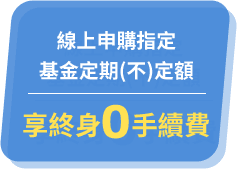
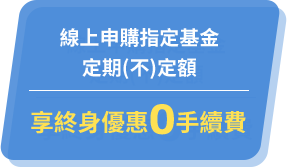
Add files via upload

diff --git a/dreamSetSail/content/css/main.min.css b/dreamSetSail/content/css/main.min.css
@@ -1,1 +1,1 @@
-body,html{font-family:"Noto Sans TC",sans-serif,Arial,"Microsoft JhengHei",Helvetica;font-size:22px;line-height:1.5;color:#333}@media only screen and (max-width:1023px){body,html{font-size:16px}}a,button{outline:0}::-moz-selection{background:#b3d4fc;text-shadow:none}::selection{background:#b3d4fc;text-shadow:none}hr{display:block;height:1px;border:0;border-top:1px solid #ccc;margin:1em 0;padding:0}audio,canvas,iframe,img,svg,video{vertical-align:middle}fieldset{border:0;margin:0;padding:0}textarea{resize:vertical}.browserupgrade{position:absolute;top:0;display:block;width:100%;margin:.2em 0;background:#ccc;padding:.2em 0}body,html{height:100%}.container{min-height:100%;overflow:hidden}.header{position:fixed;top:0;left:0;box-sizing:border-box;width:100%;padding:20px;background-image:url(../images/background/header.png);background-repeat:no-repeat;background-position:center right;background-color:#fff;z-index:100}@media only screen and (max-width:1023px){.header{padding:16px}}.logo{display:inline-block;width:308px}.logo img{width:100%}@media only screen and (max-width:1023px){.logo{width:203px}}.main{margin-top:80px}@media only screen and (max-width:1023px){.main{margin-top:59.5px}}.footer{box-sizing:border-box;padding:20px 12px;font-size:14px;font-weight:300;line-height:24px;text-align:center;color:#fff;background-color:#007fe0}@media only screen and (max-width:767px){.footer{padding-bottom:110px;text-align:left}}.mediaIcons{position:fixed;bottom:50%;left:20px;-webkit-transform:translateY(50%);transform:translateY(50%);margin:0;padding:0;z-index:20}.mediaIcons li{margin:20px 10px;list-style:none}.mediaIcons li a{display:block;width:33px;height:33px;background-position:center;background-size:100%;background-repeat:no-repeat;opacity:.4}.mediaIcons li a.facebook{background-image:url(../images/icon/social/facebook-bk.png)}.mediaIcons li a.line{background-image:url(../images/icon/social/line-bk.png)}.mediaIcons li a.instagram{background-image:url(../images/icon/social/instagram-bk.png)}.mediaIcons li a.youtube{background-image:url(../images/icon/social/youtube-bk.png)}.mediaIcons li a.telegram{background-image:url(../images/icon/social/telegram-bk.png)}@media only screen and (min-width:1024px){.mediaIcons li a:hover{opacity:1}.mediaIcons li a:hover.facebook{background-image:url(../images/icon/social/facebook-hover.png)}.mediaIcons li a:hover.line{background-image:url(../images/icon/social/line-hover.png)}.mediaIcons li a:hover.instagram{background-image:url(../images/icon/social/instagram-hover.png)}.mediaIcons li a:hover.youtube{background-image:url(../images/icon/social/youtube-hover.png)}.mediaIcons li a:hover.telegram{background-image:url(../images/icon/social/telegram-hover.png)}}@media only screen and (max-width:1023px){.mediaIcons{left:0}}@media only screen and (max-width:767px){.mediaIcons{bottom:0;left:0;-webkit-transform:none;transform:none;width:100%;padding:4px 0;text-align:center;background-color:rgba(0,159,232,.9)}.mediaIcons li{display:inline-block;vertical-align:middle;margin:6px}.mediaIcons li a{width:28px;height:28px;opacity:1}.mediaIcons li a.facebook{background-image:url(../images/icon/social/facebook-wt.svg)}.mediaIcons li a.line{background-image:url(../images/icon/social/line-wt.svg)}.mediaIcons li a.instagram{background-image:url(../images/icon/social/instagram-wt.svg)}.mediaIcons li a.youtube{background-image:url(../images/icon/social/youtube-wt.svg)}.mediaIcons li a.telegram{background-image:url(../images/icon/social/telegram-wt.svg)}}.tool{position:fixed;top:53%;right:20px;-webkit-transform:translateY(-50%);transform:translateY(-50%)}.tool-item{position:relative;display:-webkit-flex;display:flex;-webkit-flex-direction:column;flex-direction:column;-webkit-justify-content:center;justify-content:center;-webkit-align-items:center;align-items:center;width:90px;height:90px;font-size:14px;text-decoration:none;border-radius:50%;background-color:rgba(255,255,255,.85)}.tool-item img{width:35px;margin-bottom:5px}.tool-item img.mb{display:none}.tool-item.bu{color:#004fa3;border:solid 2px #004fa3}.tool-item.og{color:#eb6100;border:solid 2px #eb6100}.tool-item:hover{background-color:#fff}.tool-item+.tool-item{margin-top:7px}.tool-note{position:absolute;bottom:100%;left:50%;-webkit-transform:translate(-50%,-15px);transform:translate(-50%,-15px);box-sizing:border-box;width:100px;padding:8px;font-size:14px;font-weight:500;text-align:center;color:#fff;border-radius:7px;background-color:#004fa3;pointer-events:none}.tool-note::after{content:'';position:absolute;top:100%;left:50%;-webkit-transform:translateX(-50%);transform:translateX(-50%);border-style:solid;border-width:10px 7.5px 0 7.5px;border-color:#004fa3 transparent transparent transparent}@media only screen and (max-width:1023px){.tool-item{width:70px;height:70px;font-size:12px}.tool-item img{width:25px;margin-bottom:3px}.tool-note{width:90px;padding:5px;font-size:12px}.tool-note::after{border-width:8px 6px 0 6px}}@media only screen and (max-width:767px){.tool{top:auto;right:0;bottom:48px;left:0;display:-webkit-flex;display:flex;-webkit-transform:none;transform:none}.tool-item{-webkit-flex-direction:row;flex-direction:row;-webkit-flex:0 0 auto;flex:0 0 auto;box-sizing:border-box;height:auto;font-size:14px;border-radius:0}.tool-item+.tool-item{margin-top:0}.tool-item img{width:23px;margin-bottom:0;margin-right:10px}.tool-item img.pc{display:none}.tool-item img.mb{display:block}.tool-item.bu{width:calc(50% - 30px);padding-left:15px;color:#fff;border:none;background-image:linear-gradient(to top,#4a7fcc,#003c7b)}.tool-item.og{width:calc(50% - 45px);color:#fff;border:none;background-image:linear-gradient(to top,#ff6900,#af2500)}.tool-note{position:relative;bottom:auto;left:auto;width:auto;padding:4px 4px 4px 15px;font-size:14px;color:#004fa3;border-radius:0;background-color:#fff;-webkit-transform:none;transform:none;z-index:1}.tool-note::after{top:50%;left:100%;-webkit-transform:translateY(-50%);transform:translateY(-50%);border-width:25px 0 25px 15px;border-color:transparent transparent transparent #fff}.tool-item .tool-note{display:none}}@-webkit-keyframes move{0%{-webkit-transform:translateX(-3%);transform:translateX(-3%)}100%{-webkit-transform:translateX(3%);transform:translateX(3%)}}@keyframes move{0%{-webkit-transform:translateX(-3%);transform:translateX(-3%)}100%{-webkit-transform:translateX(3%);transform:translateX(3%)}}@-webkit-keyframes float{0%{-webkit-transform:translateY(0);transform:translateY(0)}100%{-webkit-transform:translateY(5px);transform:translateY(5px)}}@keyframes float{0%{-webkit-transform:translateY(0);transform:translateY(0)}100%{-webkit-transform:translateY(5px);transform:translateY(5px)}}@-webkit-keyframes seagull{0%{-webkit-transform:translateY(0);transform:translateY(0)}100%{-webkit-transform:translateY(5px) rotate(2deg);transform:translateY(5px) rotate(2deg)}}@keyframes seagull{0%{-webkit-transform:translateY(0);transform:translateY(0)}100%{-webkit-transform:translateY(5px) rotate(2deg);transform:translateY(5px) rotate(2deg)}}@-webkit-keyframes jump{0%{-webkit-transform:translateY(0);transform:translateY(0)}100%{-webkit-transform:translateY(10px);transform:translateY(10px)}}@keyframes jump{0%{-webkit-transform:translateY(0);transform:translateY(0)}100%{-webkit-transform:translateY(10px);transform:translateY(10px)}}.banner{position:relative;padding-bottom:41.6%;background-image:linear-gradient(to top,#fff 33%,#b7e8fe 66%,#61ccfc 100%)}.banner img{width:100%}.banner-action,.banner-box,.banner-cloud,.banner-sailboat,.banner-sea,.banner-seagull,.banner-title{position:absolute}.banner-cloud{top:7%;left:-8%;width:110%;-webkit-animation-name:float;animation-name:float;-webkit-animation-iteration-count:infinite;animation-iteration-count:infinite;-webkit-animation-duration:1s;animation-duration:1s;-webkit-animation-timing-function:linear;animation-timing-function:linear;-webkit-animation-direction:alternate;animation-direction:alternate}.banner-cloud img{-webkit-animation-name:move;animation-name:move;-webkit-animation-iteration-count:infinite;animation-iteration-count:infinite;-webkit-animation-duration:20s;animation-duration:20s;-webkit-animation-timing-function:linear;animation-timing-function:linear;-webkit-animation-direction:alternate;animation-direction:alternate}.banner-sea{bottom:0;left:0;width:100%}.banner-sailboat{top:-16%;left:-5%;width:41.25%;-webkit-animation-name:float;animation-name:float;-webkit-animation-iteration-count:infinite;animation-iteration-count:infinite;-webkit-animation-duration:.5s;animation-duration:.5s;-webkit-animation-timing-function:linear;animation-timing-function:linear;-webkit-animation-direction:alternate;animation-direction:alternate}.banner-sailboat img{-webkit-animation-name:move;animation-name:move;-webkit-animation-iteration-count:infinite;animation-iteration-count:infinite;-webkit-animation-duration:5s;animation-duration:5s;-webkit-animation-delay:-5s;animation-delay:-5s;-webkit-animation-timing-function:ease-in-out;animation-timing-function:ease-in-out;-webkit-animation-direction:alternate;animation-direction:alternate}.banner-title{top:10%;left:50%;-webkit-transform:translateX(-50%);transform:translateX(-50%);width:46.7%}.banner-box{top:48%;width:12.3%}.banner-box.left{left:36.5%}.banner-box.right{left:50.5%}.banner-seagull img{-webkit-animation-name:seagull;animation-name:seagull;-webkit-animation-iteration-count:infinite;animation-iteration-count:infinite;-webkit-animation-duration:1.5s;animation-duration:1.5s;-webkit-animation-timing-function:ease-in-out;animation-timing-function:ease-in-out;-webkit-animation-direction:alternate;animation-direction:alternate}.banner-seagull.centerLg{top:10%;left:43%;width:5%}.banner-seagull.centerLg img{-webkit-animation-delay:-.8s;animation-delay:-.8s}.banner-seagull.centerSm{top:13%;left:39%;width:3%}.banner-seagull.leftLg{top:23%;left:3%;width:3%;-webkit-transform:rotateY(180deg);transform:rotateY(180deg)}.banner-seagull.leftSm{top:26%;left:6%;width:2%;-webkit-transform:rotateY(180deg);transform:rotateY(180deg)}.banner-seagull.leftSm img{-webkit-animation-delay:-.5s;animation-delay:-.5s}.banner-seagull.rightLg{top:12%;right:12%;width:2%;-webkit-transform:rotateY(180deg);transform:rotateY(180deg)}.banner-seagull.rightLg img{-webkit-animation-delay:-1s;animation-delay:-1s}.banner-seagull.rightSm{top:14.5%;right:10%;width:1.5%;-webkit-transform:rotateY(180deg);transform:rotateY(180deg)}.banner-action{bottom:2%;left:50%;-webkit-transform:translateX(-50%);transform:translateX(-50%);width:25.3%;min-width:350px}.banner-action img{-webkit-transform-origin:bottom;transform-origin:bottom;-webkit-animation-name:jump;animation-name:jump;-webkit-animation-iteration-count:infinite;animation-iteration-count:infinite;-webkit-animation-duration:.7s;animation-duration:.7s;-webkit-animation-timing-function:ease-in-out;animation-timing-function:ease-in-out;-webkit-animation-direction:alternate;animation-direction:alternate}@media only screen and (max-width:1023px){.banner{margin-bottom:-32%;padding-bottom:186.8%;background-image:linear-gradient(to top,#2666b5,#fff 34%,#b7e8fe 77%,#61ccfc 100%)}.banner-cloud{top:30%;left:auto;right:-8%;width:250%}.banner-sailboat{top:23%;left:-30%;width:83%}.banner-title{top:5%;left:51%;width:94%}.banner-box{width:60%}.banner-box.left{top:36%;left:32%}.banner-box.right{top:24%;left:32%}.banner-seagull.centerLg{top:3%;left:39%;width:12%}.banner-seagull.centerSm{top:5%;left:29%;width:10%}.banner-seagull.leftLg,.banner-seagull.leftSm,.banner-seagull.rightLg,.banner-seagull.rightSm{display:none}.banner-action{bottom:20%;width:80%;max-width:400px;min-width:auto}}.btn{position:relative;box-sizing:border-box;display:block;width:220px;margin-top:30px;padding:13px 50px;color:#fff;text-decoration:none;border-radius:10px;background-color:#4e8eda;cursor:pointer;transition:.3s}.btn::after{content:'';position:absolute;top:50%;right:50px;-webkit-transform:translateY(-50%);transform:translateY(-50%);display:block;width:22px;height:22px;border-radius:50%;background-color:#fff;background-image:url(./../images/icon/arrow-bu.png);background-repeat:no-repeat;background-size:12px;background-position:center;transition:.3s}.btn:hover{color:#4e8eda;background-color:#fff}.btn:hover::after{background-color:#4e8eda;background-image:url(./../images/icon/arrow.png)}@media only screen and (max-width:1023px){.btn{width:155px;margin:auto;margin-top:25px;padding:10px 30px}.btn::after{right:30px;width:20px;height:20px;background-size:10px}}.content{background-color:#194685;background-image:url(./../images/background/content.jpg);background-repeat:no-repeat;background-size:100%}@media only screen and (max-width:1023px){.content{background-color:#2666b5;background-image:url(./../images/background/content-mb.jpg);background-position:bottom}}.wrap{position:relative;box-sizing:border-box;max-width:1160px;margin:0 auto;padding:30px;padding-bottom:70px}@media only screen and (max-width:1023px){.wrap{max-width:660px;padding:0 30px;padding-bottom:50px}}.grid{display:-webkit-flex;display:flex}.grid-item{-webkit-flex:1;flex:1}.grid-item>img{width:100%}.grid-item+.grid-item{margin-left:45px}.info .grid{-webkit-align-items:center;align-items:center}.info .grid-item.pic{-webkit-order:2;order:2;margin-left:45px}.info .grid-item.text{-webkit-order:1;order:1;margin-left:0}@media only screen and (max-width:1023px){.grid{display:block}.grid-item>img{max-width:350px}.grid-item+.grid-item{margin-left:0;margin-top:20px}.info .grid-item.pic{text-align:center;margin-left:0}.info .grid-item.text{margin-top:30px}}.linkList{height:100%;border-radius:20px;box-shadow:0 15px 15px 0 rgba(26,85,158,.8);background-color:rgba(247,250,252,.95);overflow:hidden}.linkList-head{display:-webkit-flex;display:flex;-webkit-justify-content:center;justify-content:center;-webkit-align-items:center;align-items:center;padding:17px;font-size:28px;font-weight:500;color:#fff;background-color:#347dd4}.linkList-head p{margin-left:15px}.linkList-content{padding:30px}.linkList-item{position:relative;display:block;padding:20px 60px;font-size:20px;font-weight:500;color:#004fa3;text-decoration:none}.linkList-item::before{content:'';position:absolute;top:50%;left:20px;-webkit-transform:translateY(-50%);transform:translateY(-50%);display:block;width:32px;height:32px;background-image:url(./../images/icon/coin.png);background-repeat:no-repeat;background-size:contain}.linkList-item::after{content:'';position:absolute;top:50%;right:20px;-webkit-transform:translateY(-50%);transform:translateY(-50%);display:block;width:25px;height:25px;border-radius:50%;background-color:#347dd4;background-image:url(./../images/icon/arrow.png);background-repeat:no-repeat;background-size:13px;background-position:center;transition:.3s}.linkList-item:hover::after{-webkit-transform:translate(15px,-50%);transform:translate(15px,-50%)}.linkList-item+.linkList-item{border-top:1px solid #347dd4}.linkList.gn{background-image:url(./../images/background/line.png);background-repeat:no-repeat;background-size:100%;background-position:bottom}.linkList.gn .linkList-head{background-color:#17a7bb}.linkList.gn .linkList-item::after{background-color:#17a7bb}.linkList.gn .linkList-item+.linkList-item{border-color:#17a7bb}@media only screen and (max-width:1279px){.linkList-head{padding:15px;font-size:24px}.linkList-head img{width:45px}.linkList-content{padding:20px}.linkList-item{padding:17px 60px}}@media only screen and (max-width:1023px){.linkList{border-radius:15px}.linkList-head{padding:12px;font-size:20px}.linkList-head img{width:36px}.linkList-head p{margin-left:10px}.linkList-content{padding:10px 15px}.linkList-item{padding:12px 30px 12px 35px;font-size:16px}.linkList-item::before{left:7px;width:20px;height:20px}.linkList-item::after{right:7px;width:16px;height:16px;background-size:8px}.linkList.gn{padding-bottom:50px}}.info{margin-top:110px}.info-title{margin-bottom:35px;font-size:36px;font-weight:500;text-align:center;color:#fff;text-shadow:0 0 13px #017db0}.info-content{padding:40px 65px;color:#fff;line-height:1.8;border-radius:20px;box-shadow:0 15px 15px 0 rgba(0,46,102,.8);border:solid 2px #fff;background-color:rgba(0,28,79,.3)}.info-content span{color:#ffe153}@media only screen and (max-width:1023px){.info{margin-top:50px}.info-title{margin-bottom:20px;font-size:27px}.info-content{padding:20px 30px 30px;border-radius:15px;border:solid 1px #fff}}.notice{margin-top:190px}.notice-title{margin-bottom:45px;font-size:26px;font-weight:500;text-align:center;color:#fff}.notice-content{font-size:16px;font-weight:300;line-height:1.6;color:#fff}@media only screen and (max-width:1023px){.notice{margin-top:70px}.notice-title{margin-bottom:20px;font-size:22px}.notice-content{font-size:14px}}ol{margin:0;padding-left:25px;line-height:1.8}ol.chinese{padding-left:30px;list-style-type:none}ol.chinese>li{position:relative}ol.chinese>li::before{content:"(" attr(data-num) ")";position:absolute;top:0;left:-3px;-webkit-transform:translateX(-100%);transform:translateX(-100%)}ol.decimal{list-style-type:none}ol.decimal>li{position:relative;counter-increment:decimal}ol.decimal>li::before{content:"(" counter(decimal,decimal) ")";position:absolute;top:0;left:-3px;-webkit-transform:translateX(-100%);transform:translateX(-100%)}@media only screen and (max-width:767px){ol{padding-left:20px}ol.chinese{padding-left:25px}}h1,h2,h3,h4,h5,h6{margin:0;font-size:1em}p{margin:0}.bold{font-weight:700}@media only screen and (min-width:1024px){.mobileOnly{display:none}}@media only screen and (max-width:1023px){.desktopOnly{display:none}}
+body,html{font-family:"Noto Sans TC",sans-serif,Arial,"Microsoft JhengHei",Helvetica;font-size:22px;line-height:1.5;color:#333}@media only screen and (max-width:1023px){body,html{font-size:16px}}a,button{outline:0}::-moz-selection{background:#b3d4fc;text-shadow:none}::selection{background:#b3d4fc;text-shadow:none}hr{display:block;height:1px;border:0;border-top:1px solid #ccc;margin:1em 0;padding:0}audio,canvas,iframe,img,svg,video{vertical-align:middle}fieldset{border:0;margin:0;padding:0}textarea{resize:vertical}.browserupgrade{position:absolute;top:0;display:block;width:100%;margin:.2em 0;background:#ccc;padding:.2em 0}body,html{height:100%}.container{min-height:100%;overflow:hidden}.header{position:fixed;top:0;left:0;box-sizing:border-box;width:100%;padding:20px;background-image:url(../images/background/header.png);background-repeat:no-repeat;background-position:center right;background-color:#fff;z-index:100}@media only screen and (max-width:1023px){.header{padding:16px}}.logo{display:inline-block;width:308px}.logo img{width:100%}@media only screen and (max-width:1023px){.logo{width:203px}}.main{margin-top:80px}@media only screen and (max-width:1023px){.main{margin-top:59.5px}}.footer{box-sizing:border-box;padding:20px 12px;font-size:14px;font-weight:300;line-height:24px;text-align:center;color:#fff;background-color:#007fe0}@media only screen and (max-width:767px){.footer{padding-bottom:110px;text-align:left}}.mediaIcons{position:fixed;bottom:50%;left:20px;-webkit-transform:translateY(50%);transform:translateY(50%);margin:0;padding:0;z-index:20}.mediaIcons li{margin:20px 10px;list-style:none}.mediaIcons li a{display:block;width:33px;height:33px;background-position:center;background-size:100%;background-repeat:no-repeat;opacity:.4}.mediaIcons li a.facebook{background-image:url(../images/icon/social/facebook-bk.png)}.mediaIcons li a.line{background-image:url(../images/icon/social/line-bk.png)}.mediaIcons li a.instagram{background-image:url(../images/icon/social/instagram-bk.png)}.mediaIcons li a.youtube{background-image:url(../images/icon/social/youtube-bk.png)}.mediaIcons li a.telegram{background-image:url(../images/icon/social/telegram-bk.png)}@media only screen and (min-width:1024px){.mediaIcons li a:hover{opacity:1}.mediaIcons li a:hover.facebook{background-image:url(../images/icon/social/facebook-hover.png)}.mediaIcons li a:hover.line{background-image:url(../images/icon/social/line-hover.png)}.mediaIcons li a:hover.instagram{background-image:url(../images/icon/social/instagram-hover.png)}.mediaIcons li a:hover.youtube{background-image:url(../images/icon/social/youtube-hover.png)}.mediaIcons li a:hover.telegram{background-image:url(../images/icon/social/telegram-hover.png)}}@media only screen and (max-width:1023px){.mediaIcons{left:0}}@media only screen and (max-width:767px){.mediaIcons{bottom:0;left:0;-webkit-transform:none;transform:none;width:100%;padding:4px 0;text-align:center;background-color:rgba(0,159,232,.9)}.mediaIcons li{display:inline-block;vertical-align:middle;margin:6px}.mediaIcons li a{width:28px;height:28px;opacity:1}.mediaIcons li a.facebook{background-image:url(../images/icon/social/facebook-wt.svg)}.mediaIcons li a.line{background-image:url(../images/icon/social/line-wt.svg)}.mediaIcons li a.instagram{background-image:url(../images/icon/social/instagram-wt.svg)}.mediaIcons li a.youtube{background-image:url(../images/icon/social/youtube-wt.svg)}.mediaIcons li a.telegram{background-image:url(../images/icon/social/telegram-wt.svg)}}.tool{position:fixed;top:53%;right:20px;-webkit-transform:translateY(-50%);transform:translateY(-50%)}.tool-item{position:relative;display:-webkit-flex;display:flex;-webkit-flex-direction:column;flex-direction:column;-webkit-justify-content:center;justify-content:center;-webkit-align-items:center;align-items:center;width:90px;height:90px;font-size:14px;text-decoration:none;border-radius:50%;background-color:rgba(255,255,255,.85)}.tool-item img{width:35px;margin-bottom:5px}.tool-item img.mb{display:none}.tool-item.bu{color:#004fa3;border:solid 2px #004fa3}.tool-item.og{color:#eb6100;border:solid 2px #eb6100}.tool-item:hover{background-color:#fff}.tool-item+.tool-item{margin-top:7px}.tool-note{position:absolute;bottom:100%;left:50%;-webkit-transform:translate(-50%,-15px);transform:translate(-50%,-15px);box-sizing:border-box;width:100px;padding:8px;font-size:14px;font-weight:500;text-align:center;color:#fff;border-radius:7px;background-color:#004fa3;pointer-events:none}.tool-note::after{content:'';position:absolute;top:100%;left:50%;-webkit-transform:translateX(-50%);transform:translateX(-50%);border-style:solid;border-width:10px 7.5px 0 7.5px;border-color:#004fa3 transparent transparent transparent}@media only screen and (max-width:1023px){.tool-item{width:70px;height:70px;font-size:12px}.tool-item img{width:25px;margin-bottom:3px}.tool-note{width:90px;padding:5px;font-size:12px}.tool-note::after{border-width:8px 6px 0 6px}}@media only screen and (max-width:767px){.tool{top:auto;right:0;bottom:48px;left:0;display:-webkit-flex;display:flex;-webkit-transform:none;transform:none}.tool-item{-webkit-flex-direction:row;flex-direction:row;-webkit-flex:0 0 auto;flex:0 0 auto;box-sizing:border-box;height:auto;font-size:14px;border-radius:0}.tool-item+.tool-item{margin-top:0}.tool-item img{width:23px;margin-bottom:0;margin-right:10px}.tool-item img.pc{display:none}.tool-item img.mb{display:block}.tool-item.bu{width:calc(50% - 30px);padding-left:15px;color:#fff;border:none;background-image:linear-gradient(to top,#4a7fcc,#003c7b)}.tool-item.og{width:calc(50% - 45px);color:#fff;border:none;background-image:linear-gradient(to top,#ff6900,#af2500)}.tool-note{position:relative;bottom:auto;left:auto;width:auto;padding:4px 4px 4px 15px;font-size:14px;color:#004fa3;border-radius:0;background-color:#fff;-webkit-transform:none;transform:none;z-index:1}.tool-note::after{top:50%;left:100%;-webkit-transform:translateY(-50%);transform:translateY(-50%);border-width:25px 0 25px 15px;border-color:transparent transparent transparent #fff}.tool-item .tool-note{display:none}}@-webkit-keyframes move{0%{-webkit-transform:translateX(-3%);transform:translateX(-3%)}100%{-webkit-transform:translateX(3%);transform:translateX(3%)}}@keyframes move{0%{-webkit-transform:translateX(-3%);transform:translateX(-3%)}100%{-webkit-transform:translateX(3%);transform:translateX(3%)}}@-webkit-keyframes float{0%{-webkit-transform:translateY(0);transform:translateY(0)}100%{-webkit-transform:translateY(5px);transform:translateY(5px)}}@keyframes float{0%{-webkit-transform:translateY(0);transform:translateY(0)}100%{-webkit-transform:translateY(5px);transform:translateY(5px)}}@-webkit-keyframes seagull{0%{-webkit-transform:translateY(0);transform:translateY(0)}100%{-webkit-transform:translateY(5px) rotate(2deg);transform:translateY(5px) rotate(2deg)}}@keyframes seagull{0%{-webkit-transform:translateY(0);transform:translateY(0)}100%{-webkit-transform:translateY(5px) rotate(2deg);transform:translateY(5px) rotate(2deg)}}@-webkit-keyframes jump{0%{-webkit-transform:translateY(0);transform:translateY(0)}100%{-webkit-transform:translateY(10px);transform:translateY(10px)}}@keyframes jump{0%{-webkit-transform:translateY(0);transform:translateY(0)}100%{-webkit-transform:translateY(10px);transform:translateY(10px)}}.banner{position:relative;padding-bottom:41.6%;background-image:linear-gradient(to top,#fff 33%,#b7e8fe 66%,#61ccfc 100%)}.banner img{width:100%}.banner-action,.banner-box,.banner-cloud,.banner-sailboat,.banner-sea,.banner-seagull,.banner-title{position:absolute}.banner-cloud{top:7%;left:-8%;width:110%;-webkit-animation-name:float;animation-name:float;-webkit-animation-iteration-count:infinite;animation-iteration-count:infinite;-webkit-animation-duration:1s;animation-duration:1s;-webkit-animation-timing-function:linear;animation-timing-function:linear;-webkit-animation-direction:alternate;animation-direction:alternate}.banner-cloud img{-webkit-animation-name:move;animation-name:move;-webkit-animation-iteration-count:infinite;animation-iteration-count:infinite;-webkit-animation-duration:20s;animation-duration:20s;-webkit-animation-timing-function:linear;animation-timing-function:linear;-webkit-animation-direction:alternate;animation-direction:alternate}.banner-sea{bottom:0;left:0;width:100%}.banner-sailboat{top:-16%;left:-5%;width:41.25%;-webkit-animation-name:float;animation-name:float;-webkit-animation-iteration-count:infinite;animation-iteration-count:infinite;-webkit-animation-duration:.5s;animation-duration:.5s;-webkit-animation-timing-function:linear;animation-timing-function:linear;-webkit-animation-direction:alternate;animation-direction:alternate}.banner-sailboat img{-webkit-animation-name:move;animation-name:move;-webkit-animation-iteration-count:infinite;animation-iteration-count:infinite;-webkit-animation-duration:5s;animation-duration:5s;-webkit-animation-delay:-5s;animation-delay:-5s;-webkit-animation-timing-function:ease-in-out;animation-timing-function:ease-in-out;-webkit-animation-direction:alternate;animation-direction:alternate}.banner-title{top:10%;left:50%;-webkit-transform:translateX(-50%);transform:translateX(-50%);width:46.7%}.banner-box{top:48%;width:14.9%}.banner-box.left{left:35.5%}.banner-box.right{left:51%}.banner-seagull img{-webkit-animation-name:seagull;animation-name:seagull;-webkit-animation-iteration-count:infinite;animation-iteration-count:infinite;-webkit-animation-duration:1.5s;animation-duration:1.5s;-webkit-animation-timing-function:ease-in-out;animation-timing-function:ease-in-out;-webkit-animation-direction:alternate;animation-direction:alternate}.banner-seagull.centerLg{top:10%;left:43%;width:5%}.banner-seagull.centerLg img{-webkit-animation-delay:-.8s;animation-delay:-.8s}.banner-seagull.centerSm{top:13%;left:39%;width:3%}.banner-seagull.leftLg{top:23%;left:3%;width:3%;-webkit-transform:rotateY(180deg);transform:rotateY(180deg)}.banner-seagull.leftSm{top:26%;left:6%;width:2%;-webkit-transform:rotateY(180deg);transform:rotateY(180deg)}.banner-seagull.leftSm img{-webkit-animation-delay:-.5s;animation-delay:-.5s}.banner-seagull.rightLg{top:12%;right:12%;width:2%;-webkit-transform:rotateY(180deg);transform:rotateY(180deg)}.banner-seagull.rightLg img{-webkit-animation-delay:-1s;animation-delay:-1s}.banner-seagull.rightSm{top:14.5%;right:10%;width:1.5%;-webkit-transform:rotateY(180deg);transform:rotateY(180deg)}.banner-action{bottom:2%;left:50%;-webkit-transform:translateX(-50%);transform:translateX(-50%);width:25.3%;min-width:350px}.banner-action img{-webkit-transform-origin:bottom;transform-origin:bottom;-webkit-animation-name:jump;animation-name:jump;-webkit-animation-iteration-count:infinite;animation-iteration-count:infinite;-webkit-animation-duration:.7s;animation-duration:.7s;-webkit-animation-timing-function:ease-in-out;animation-timing-function:ease-in-out;-webkit-animation-direction:alternate;animation-direction:alternate}@media only screen and (max-width:1023px){.banner{margin-bottom:-32%;padding-bottom:186.8%;background-image:linear-gradient(to top,#2666b5,#fff 34%,#b7e8fe 77%,#61ccfc 100%)}.banner-cloud{top:30%;left:auto;right:-8%;width:250%}.banner-sailboat{top:23%;left:-30%;width:83%}.banner-title{top:5%;left:51%;width:94%}.banner-box{width:60%}.banner-box.left{top:36%;left:32%}.banner-box.right{top:24%;left:32%}.banner-seagull.centerLg{top:3%;left:39%;width:12%}.banner-seagull.centerSm{top:5%;left:29%;width:10%}.banner-seagull.leftLg,.banner-seagull.leftSm,.banner-seagull.rightLg,.banner-seagull.rightSm{display:none}.banner-action{bottom:20%;width:80%;max-width:400px;min-width:auto}}.btn{position:relative;box-sizing:border-box;display:block;width:220px;margin-top:30px;padding:13px 50px;color:#fff;text-decoration:none;border-radius:10px;background-color:#4e8eda;cursor:pointer;transition:.3s}.btn::after{content:'';position:absolute;top:50%;right:50px;-webkit-transform:translateY(-50%);transform:translateY(-50%);display:block;width:22px;height:22px;border-radius:50%;background-color:#fff;background-image:url(./../images/icon/arrow-bu.png);background-repeat:no-repeat;background-size:12px;background-position:center;transition:.3s}.btn:hover{color:#4e8eda;background-color:#fff}.btn:hover::after{background-color:#4e8eda;background-image:url(./../images/icon/arrow.png)}@media only screen and (max-width:1023px){.btn{width:155px;margin:auto;margin-top:25px;padding:10px 30px}.btn::after{right:30px;width:20px;height:20px;background-size:10px}}.content{background-color:#194685;background-image:url(./../images/background/content.jpg);background-repeat:no-repeat;background-size:100%}@media only screen and (max-width:1023px){.content{background-color:#2666b5;background-image:url(./../images/background/content-mb.jpg);background-position:bottom}}.wrap{position:relative;box-sizing:border-box;max-width:1160px;margin:0 auto;padding:30px;padding-bottom:70px}@media only screen and (max-width:1023px){.wrap{max-width:660px;padding:0 30px;padding-bottom:50px}}.grid{display:-webkit-flex;display:flex}.grid-item{-webkit-flex:1;flex:1}.grid-item>img{width:100%}.grid-item+.grid-item{margin-left:45px}.info .grid{-webkit-align-items:center;align-items:center}.info .grid-item.pic{-webkit-order:2;order:2;margin-left:45px}.info .grid-item.text{-webkit-order:1;order:1;margin-left:0}@media only screen and (max-width:1023px){.grid{display:block}.grid-item>img{max-width:350px}.grid-item+.grid-item{margin-left:0;margin-top:20px}.info .grid-item.pic{text-align:center;margin-left:0}.info .grid-item.text{margin-top:30px}}.linkList{height:100%;border-radius:20px;box-shadow:0 15px 15px 0 rgba(26,85,158,.8);background-color:rgba(247,250,252,.95);overflow:hidden}.linkList-head{display:-webkit-flex;display:flex;-webkit-justify-content:center;justify-content:center;-webkit-align-items:center;align-items:center;padding:17px;font-size:28px;font-weight:500;color:#fff;background-color:#347dd4}.linkList-head p{margin-left:15px}.linkList-content{padding:30px}.linkList-item{position:relative;display:block;padding:20px 60px;font-size:20px;font-weight:500;color:#004fa3;text-decoration:none}.linkList-item::before{content:'';position:absolute;top:50%;left:20px;-webkit-transform:translateY(-50%);transform:translateY(-50%);display:block;width:32px;height:32px;background-image:url(./../images/icon/coin.png);background-repeat:no-repeat;background-size:contain}.linkList-item::after{content:'';position:absolute;top:50%;right:20px;-webkit-transform:translateY(-50%);transform:translateY(-50%);display:block;width:25px;height:25px;border-radius:50%;background-color:#347dd4;background-image:url(./../images/icon/arrow.png);background-repeat:no-repeat;background-size:13px;background-position:center;transition:.3s}.linkList-item:hover::after{-webkit-transform:translate(15px,-50%);transform:translate(15px,-50%)}.linkList-item+.linkList-item{border-top:1px solid #347dd4}.linkList.gn{background-image:url(./../images/background/line.png);background-repeat:no-repeat;background-size:100%;background-position:bottom}.linkList.gn .linkList-head{background-color:#17a7bb}.linkList.gn .linkList-item::after{background-color:#17a7bb}.linkList.gn .linkList-item+.linkList-item{border-color:#17a7bb}@media only screen and (max-width:1279px){.linkList-head{padding:15px;font-size:24px}.linkList-head img{width:45px}.linkList-content{padding:20px}.linkList-item{padding:17px 60px}}@media only screen and (max-width:1023px){.linkList{border-radius:15px}.linkList-head{padding:12px;font-size:20px}.linkList-head img{width:36px}.linkList-head p{margin-left:10px}.linkList-content{padding:10px 15px}.linkList-item{padding:12px 30px 12px 35px;font-size:16px}.linkList-item::before{left:7px;width:20px;height:20px}.linkList-item::after{right:7px;width:16px;height:16px;background-size:8px}.linkList.gn{padding-bottom:50px}}.info{margin-top:110px}.info-title{margin-bottom:35px;font-size:36px;font-weight:500;text-align:center;color:#fff;text-shadow:0 0 13px #017db0}.info-content{padding:40px 65px;color:#fff;line-height:1.8;border-radius:20px;box-shadow:0 15px 15px 0 rgba(0,46,102,.8);border:solid 2px #fff;background-color:rgba(0,28,79,.3)}.info-content span{color:#ffe153}@media only screen and (max-width:1023px){.info{margin-top:50px}.info-title{margin-bottom:20px;font-size:27px}.info-content{padding:20px 30px 30px;border-radius:15px;border:solid 1px #fff}}.notice{margin-top:190px}.notice-title{margin-bottom:45px;font-size:26px;font-weight:500;text-align:center;color:#fff}.notice-content{font-size:16px;font-weight:300;line-height:1.6;color:#fff}@media only screen and (max-width:1023px){.notice{margin-top:70px}.notice-title{margin-bottom:20px;font-size:22px}.notice-content{font-size:14px}}ol{margin:0;padding-left:25px;line-height:1.8}ol.chinese{padding-left:30px;list-style-type:none}ol.chinese>li{position:relative}ol.chinese>li::before{content:"(" attr(data-num) ")";position:absolute;top:0;left:-3px;-webkit-transform:translateX(-100%);transform:translateX(-100%)}ol.decimal{list-style-type:none}ol.decimal>li{position:relative;counter-increment:decimal}ol.decimal>li::before{content:"(" counter(decimal,decimal) ")";position:absolute;top:0;left:-3px;-webkit-transform:translateX(-100%);transform:translateX(-100%)}@media only screen and (max-width:767px){ol{padding-left:20px}ol.chinese{padding-left:25px}}h1,h2,h3,h4,h5,h6{margin:0;font-size:1em}p{margin:0}.bold{font-weight:700}@media only screen and (min-width:1024px){.mobileOnly{display:none}}@media only screen and (max-width:1023px){.desktopOnly{display:none}}

diff --git a/dreamSetSail/content/css/main.css b/dreamSetSail/content/css/main.css
@@ -488,11 +488,11 @@ body {
     width: 46.7%; }
   .banner-box {
     top: 48%;
-    width: 12.3%; }
+    width: 14.9%; }
     .banner-box.left {
-      left: 36.5%; }
+      left: 35.5%; }
     .banner-box.right {
-      left: 50.5%; }
+      left: 51%; }
   .banner-seagull img {
     -webkit-animation-name: seagull;
             animation-name: seagull;
